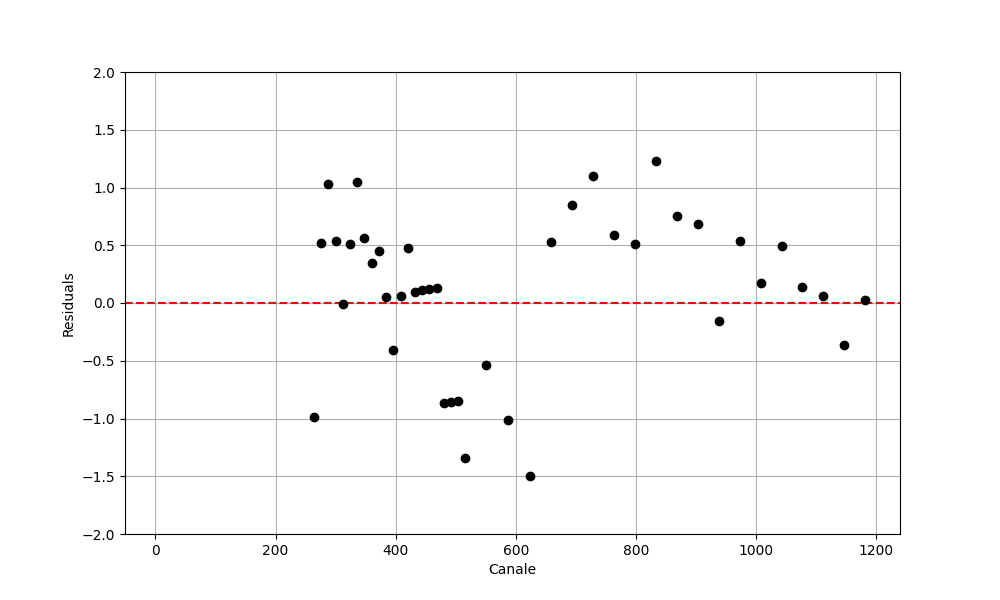
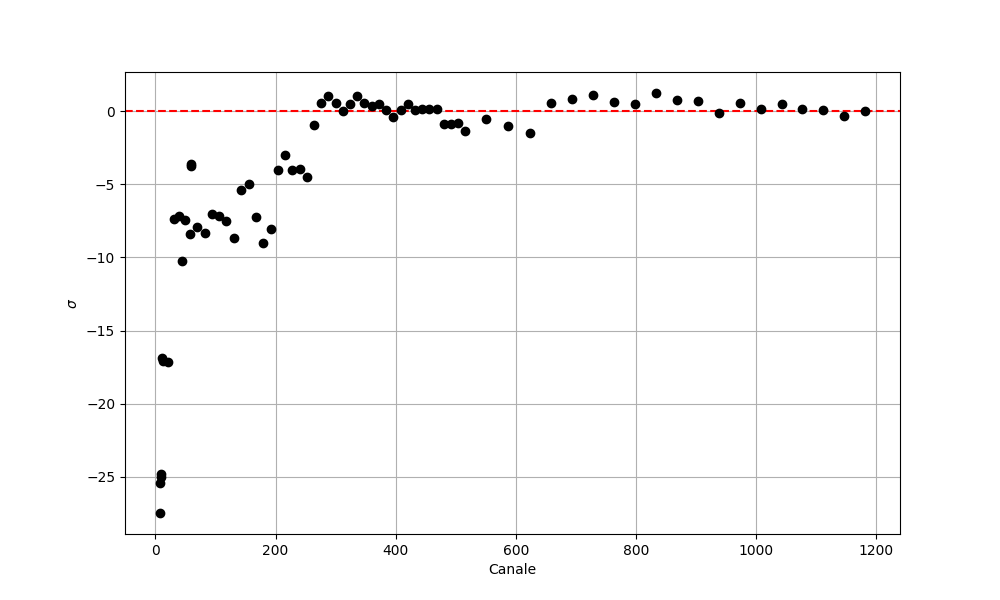
res

diff --git a/ADC_integrale.py b/ADC_integrale.py
@@ -62,8 +62,8 @@ def residuals(graph, fit_function, destinationPNG):
     plt.axhline(0, color='red', linestyle='--', linewidth=1.5)
 
     plt.xlabel(graph.GetXaxis().GetTitle())
-    plt.ylabel("Residuals")
-    plt.ylim(-2, 2)
+    plt.ylabel(r'$\sigma$')
+    # plt.ylim(-2, 2)
     plt.grid(True)
     plt.savefig(destinationPNG)
 
